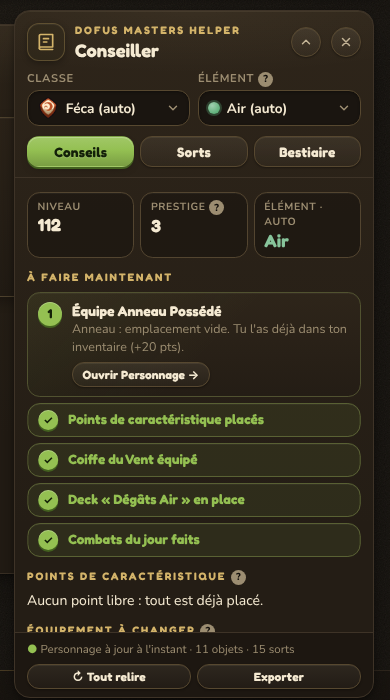
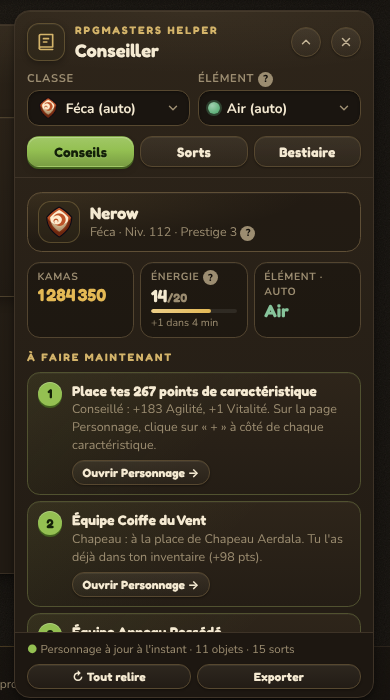
Renommage en RpgMasters, carte du personnage avec kamas et énergie
- Le jeu s'appelle désormais RpgMasters : nom de l'extension, panneau,
  README et messages mis à jour.
- Carte du personnage en tête des conseils : icône de classe, nom, niveau,
  prestige, kamas et énergie (jauge et temps avant le prochain point),
  lus dans le menu profil du site.
- Le panneau garde sa position de défilement quand il se met à jour.

Claude-Session: https://claude.ai/code/session_01LBUNzwLjm1SmdaVHMPXYhW

diff --git a/src/overlay.js b/src/overlay.js
@@ -38,7 +38,7 @@
     <div class="dmx-header">
       <span class="dmx-header-icon">${ICON}</span>
       <div class="dmx-header-text">
-        <div class="dmx-kicker">Dofus Masters Helper</div>
+        <div class="dmx-kicker">RpgMasters Helper</div>
         <div class="dmx-title">Conseiller</div>
       </div>
       <button class="dmx-collapse dmx-icon-btn" title="Replier" aria-label="Replier" aria-expanded="true">
@@ -110,7 +110,7 @@
   // Petit bouton flottant pour rouvrir le panneau quand il est fermé.
   const launcher = document.createElement("button");
   launcher.id = "dmx-launcher";
-  launcher.title = "Ouvrir le conseiller Dofus Masters";
+  launcher.title = "Ouvrir le conseiller RpgMasters";
   launcher.innerHTML = ICON;
 
   const $ = (sel) => panel.querySelector(sel);
@@ -478,18 +478,68 @@
     </div>`;
   }
 
-  function renderAdvice(s) {
+  // Énergie estimée maintenant : le jeu donne la valeur à la lecture, le moment du prochain
+  // point et l'intervalle entre deux points ; on ajoute les points regagnés depuis.
+  function energyNow(e) {
+    if (!e) return null;
+    const max = e.max ?? Infinity;
+    let { value, nextAt } = e;
+    const now = Date.now();
+    if (value < max && nextAt && e.periodMs && now >= nextAt) {
+      const gained = 1 + Math.floor((now - nextAt) / e.periodMs);
+      value = Math.min(max, value + gained);
+      nextAt += gained * e.periodMs;
+    }
+    return { value, max: e.max, nextIn: value < max && nextAt ? Math.max(0, nextAt - now) : null };
+  }
+
+  const formatKamas = (k) => new Intl.NumberFormat("fr-FR").format(k);
+
+  function formatDelay(ms) {
+    const minutes = Math.ceil(ms / 60000);
+    if (minutes < 60) return `${minutes} min`;
+    return `${Math.floor(minutes / 60)} h ${String(minutes % 60).padStart(2, "0")}`;
+  }
+
+  // Carte du personnage : classe, nom, niveau, prestige, puis kamas, énergie et élément.
+  function renderProfile(s) {
+    const c = s.character;
     const el = ELEMENTS[s.elementKey];
     const how = settings.elementKey ? "choisi" : s.detectedElement ? "auto" : "défaut";
-    return `${renderWelcome()}
+    const cls = s.cat.classes.find((x) => x.id === s.classId);
+    const icon = cls ? cls.img || `/img/breeds/symbol_${cls.id}.png` : null;
+    const details = [
+      cls?.n,
+      s.level != null ? `Niv. ${s.level}` : null,
+      s.prestige ? `Prestige ${s.prestige}` : null,
+    ].filter(Boolean);
+    const energy = energyNow(c?.energy);
+    const pct = energy?.max ? Math.round((100 * energy.value) / energy.max) : null;
+    return `<div class="dmx-profile">
+        <span class="dmx-profile-icon">${icon ? `<img src="${escapeHtml(icon)}" alt="">` : ""}</span>
+        <div class="dmx-profile-text">
+          <div class="dmx-profile-name">${escapeHtml(c?.name || "Ton personnage")}</div>
+          <div class="dmx-dim">${escapeHtml(details.join(" · ") || "Connecte-toi pour voir ton personnage")}
+            ${s.prestige ? help("Chaque prestige donne des bonus permanents en combat (PA, PM, portée).") : ""}</div>
+        </div>
+      </div>
       <div class="dmx-stats">
-        <div class="dmx-stat"><div class="dmx-stat-label">Niveau</div>
-          <div class="dmx-stat-value">${s.level ?? "?"}</div></div>
-        <div class="dmx-stat"><div class="dmx-stat-label">Prestige ${help("Chaque prestige donne des bonus permanents en combat (PA, PM, portée).")}</div>
-          <div class="dmx-stat-value">${s.prestige ?? "?"}</div></div>
+        <div class="dmx-stat"><div class="dmx-stat-label">Kamas</div>
+          <div class="dmx-stat-value dmx-kamas">${c?.kamas != null ? formatKamas(c.kamas) : "?"}</div></div>
+        <div class="dmx-stat"><div class="dmx-stat-label">Énergie ${help("Chaque combat consomme de l'énergie ; elle se recharge toute seule avec le temps.")}</div>
+          <div class="dmx-stat-value">${energy ? `${energy.value}${energy.max ? `<small>/${energy.max}</small>` : ""}` : "?"}</div>
+          ${pct != null ? `<div class="dmx-energy-bar"><span style="width:${pct}%"></span></div>` : ""}
+          ${energy?.nextIn != null ? `<div class="dmx-stat-sub">+1 dans ${formatDelay(energy.nextIn)}</div>`
+            : energy && energy.max && energy.value >= energy.max ? `<div class="dmx-stat-sub">pleine</div>` : ""}</div>
         <div class="dmx-stat dmx-el-${s.elementKey}"><div class="dmx-stat-label">Élément · ${how}</div>
           <div class="dmx-stat-value dmx-el-${s.elementKey}">${el.label}</div></div>
-      </div>
+      </div>`;
+  }
+
+  function renderAdvice(s) {
+    const el = ELEMENTS[s.elementKey];
+    return `${renderWelcome()}
+      ${renderProfile(s)}
       <section><h4>À faire maintenant</h4>${renderTodo(s)}</section>
       <section><h4>Points de caractéristique ${help(`Tu gagnes des points à chaque niveau. Plus une caractéristique est haute, plus un point coûte cher (1, puis 2, 3, 4 points). ${el.statLabel} augmente tes dégâts ${el.label}, Vitalité tes points de vie.`)}</h4>${renderPoints(s)}</section>
       <section><h4>Équipement à changer ${help("Objets de ton inventaire qui sont meilleurs que ce que tu portes pour ton élément. « pts » = note de l'objet : plus c'est haut, mieux c'est.")}</h4>${renderGear(s)}</section>`;
@@ -655,6 +705,7 @@
       b.classList.toggle("active", b.dataset.tab === settings.tab);
     }
     searchBox.hidden = settings.tab !== "bestiaire";
+    const scroll = body.scrollTop;
     const focused = body.contains(document.activeElement) ? document.activeElement.dataset?.stat : null;
     const caret = focused ? document.activeElement.selectionStart : null;
     // Une erreur dans un onglet ne doit pas figer tout le panneau.
@@ -663,10 +714,11 @@
       else if (settings.tab === "bestiaire") body.innerHTML = renderBestiary(s);
       else body.innerHTML = renderAdvice(s);
     } catch (err) {
-      console.error("[Dofus Masters Helper]", err);
+      console.error("[RpgMasters Helper]", err);
       body.innerHTML = `<p class="dmx-warn">⚠ Erreur d'affichage : ${escapeHtml(err.message)}.
         Essaie « Tout relire » ; si ça persiste, clique sur « Exporter » et envoie le résultat.</p>`;
     }
+    body.scrollTop = scroll;
     if (focused) {
       const input = body.querySelector(`input[data-stat="${CSS.escape(focused)}"]`);
       input?.focus();
@@ -732,9 +784,12 @@
     true
   );
 
-  // Rafraîchit le « il y a … » de la barre d'état.
+  // L'énergie et le « il y a … » évoluent avec le temps : on les redessine toutes les 30 s
+  // (sauf pendant une saisie dans le panneau).
   setInterval(() => {
-    if (settings.visible && !document.hidden) renderStatus(state());
+    if (!settings.visible || settings.collapsed || document.hidden) return;
+    if (settings.tab === "conseils" && !panel.contains(document.activeElement)) render();
+    else renderStatus(state());
   }, 30000);
 
   function applyVisibility() {

diff --git a/src/catalog.js b/src/catalog.js
@@ -87,6 +87,9 @@ var DMX_CATALOG = (() => {
       rows: Array.isArray(fields.rows) ? fields.rows : [],
       pointsFree: typeof fields.pointsFree === "number" ? fields.pointsFree : null,
       level: typeof profile?.level === "number" ? profile.level : null,
+      name: typeof profile?.name === "string" ? profile.name : null,
+      kamas: typeof profile?.kamas === "number" ? profile.kamas : null,
+      energy: readEnergy(profile?.energy),
       prestige: typeof fields.prestige === "number" ? fields.prestige : null,
       classId: typeof current === "number" ? current : current?.id ?? null,
       inventoryIds: inventory.map((i) => i.id),
@@ -101,6 +104,21 @@ var DMX_CATALOG = (() => {
     // La page Deck donne la classe de façon sûre (breedId) ; sinon, celle de la fiche.
     catalog.character.classId = catalog.character.deck?.classId ?? catalog.character.classId;
     catalog.characterAt = Date.now();
+  }
+
+  // Énergie du menu profil : { value, max, nextAt, periodSec }. `nextAt` = moment du prochain
+  // point d'énergie (date ISO ou horodatage) ; `periodSec` = secondes entre deux points.
+  function readEnergy(energy) {
+    if (!energy || typeof energy.value !== "number") return null;
+    let nextAt = null;
+    if (typeof energy.nextAt === "number") nextAt = energy.nextAt < 1e12 ? energy.nextAt * 1000 : energy.nextAt;
+    else if (typeof energy.nextAt === "string") nextAt = Date.parse(energy.nextAt) || null;
+    return {
+      value: energy.value,
+      max: typeof energy.max === "number" ? energy.max : null,
+      nextAt,
+      periodMs: typeof energy.periodSec === "number" ? energy.periodSec * 1000 : null,
+    };
   }
 
   // Page Deck : props du composant DeckBuilder { collection, initialDecks, initialActive,

diff --git a/src/overlay.css b/src/overlay.css
@@ -1027,3 +1027,76 @@
 #dmx-panel .dmx-live {
   color: var(--dmx-leaf);
 }
+
+/* ---------- Carte du personnage ---------- */
+
+#dmx-panel .dmx-profile {
+  display: flex;
+  align-items: center;
+  gap: 10px;
+  margin-top: 10px;
+  padding: 8px 10px;
+  border: 1px solid color-mix(in srgb, var(--dmx-ac) 22%, var(--dmx-line));
+  border-radius: 0.9rem;
+  background: radial-gradient(120% 70px at 0% 0%, color-mix(in srgb, var(--dmx-ac) 12%, transparent), transparent 70%),
+    #0000002e;
+  box-shadow: inset 0 1px #ffffff0a;
+}
+
+#dmx-panel .dmx-profile-icon {
+  display: grid;
+  place-items: center;
+  flex-shrink: 0;
+  width: 42px;
+  height: 42px;
+  border-radius: 0.8rem;
+  background: color-mix(in srgb, var(--dmx-ac) 10%, #00000059);
+  border: 1px solid color-mix(in srgb, var(--dmx-ac) 28%, transparent);
+}
+
+#dmx-panel .dmx-profile-icon img {
+  width: 32px;
+  height: 32px;
+  object-fit: contain;
+}
+
+#dmx-panel .dmx-profile-text {
+  min-width: 0;
+}
+
+#dmx-panel .dmx-profile-name {
+  font: 700 1.05rem/1.2 var(--dmx-display);
+  white-space: nowrap;
+  overflow: hidden;
+  text-overflow: ellipsis;
+}
+
+#dmx-panel .dmx-kamas {
+  color: var(--dmx-gold);
+}
+
+#dmx-panel .dmx-stat-value small {
+  font-size: 0.7em;
+  color: var(--dmx-dim);
+}
+
+#dmx-panel .dmx-stat-sub {
+  font-size: 0.66rem;
+  color: var(--dmx-dim);
+  white-space: nowrap;
+}
+
+#dmx-panel .dmx-energy-bar {
+  height: 4px;
+  margin: 3px 0 2px;
+  overflow: hidden;
+  border-radius: 999px;
+  background: #ffffff14;
+}
+
+#dmx-panel .dmx-energy-bar span {
+  display: block;
+  height: 100%;
+  border-radius: inherit;
+  background: linear-gradient(90deg, color-mix(in srgb, var(--dmx-gold) 70%, #fff), var(--dmx-gold));
+}
